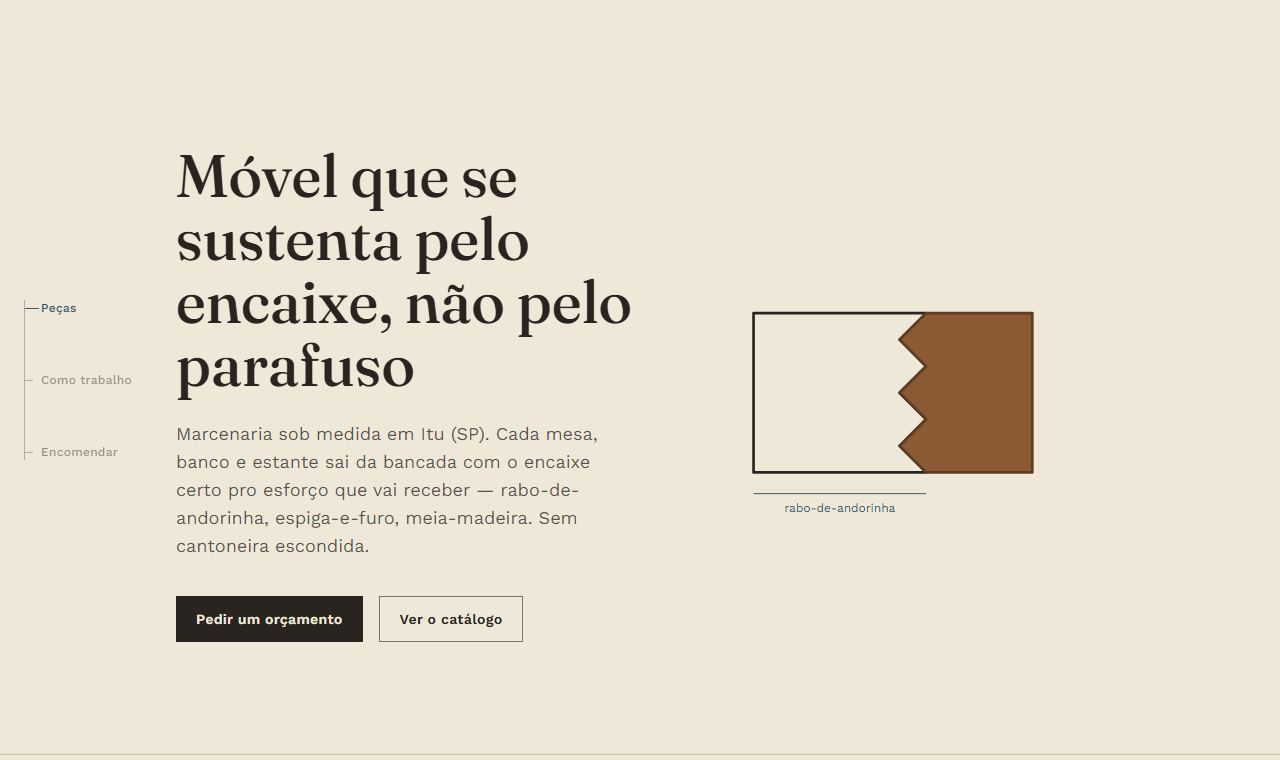
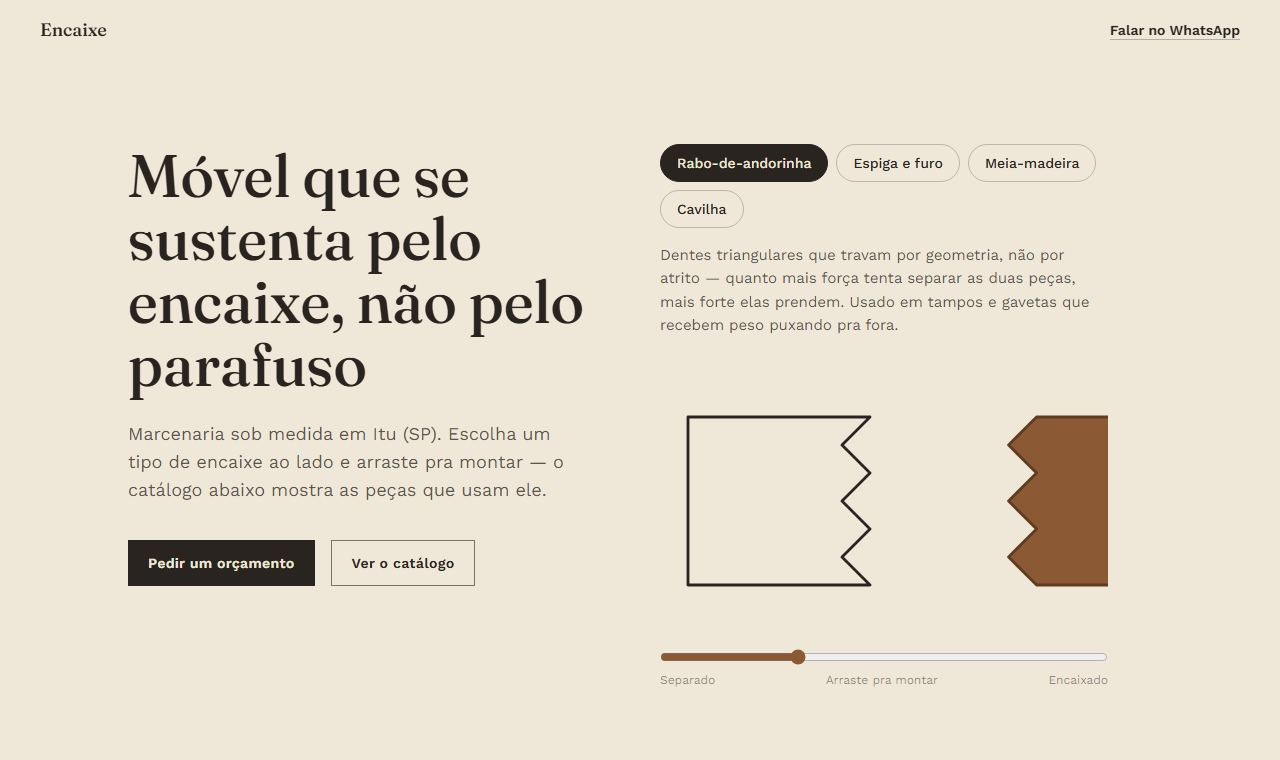
madolio: atualiza descrição e screenshot de Corte e Encaixe

diff --git a/madolio/src/data/projetos.ts b/madolio/src/data/projetos.ts
@@ -116,7 +116,7 @@ export const projetos: Projeto[] = [
     name: 'Corte',
     category: 'Salão de beleza e barbearia',
     description:
-      'Painel de senha de atendimento em vez de nav — na paleta azul/branco/vermelho do poste giratório clássico de barbearia. O talão puxa uma senha nova de verdade, e escolher um serviço já mostra a espera estimada.',
+      'Painel de senha de atendimento numa barbearia clássica de verdade — poste giratório, selo vintage e tesoura/navalha/pente marcando cada profissional pela especialidade.',
     bg: '#FAFAF7',
     accent: '#C8202F',
     url: 'https://corte.fenoninho-max.workers.dev',
